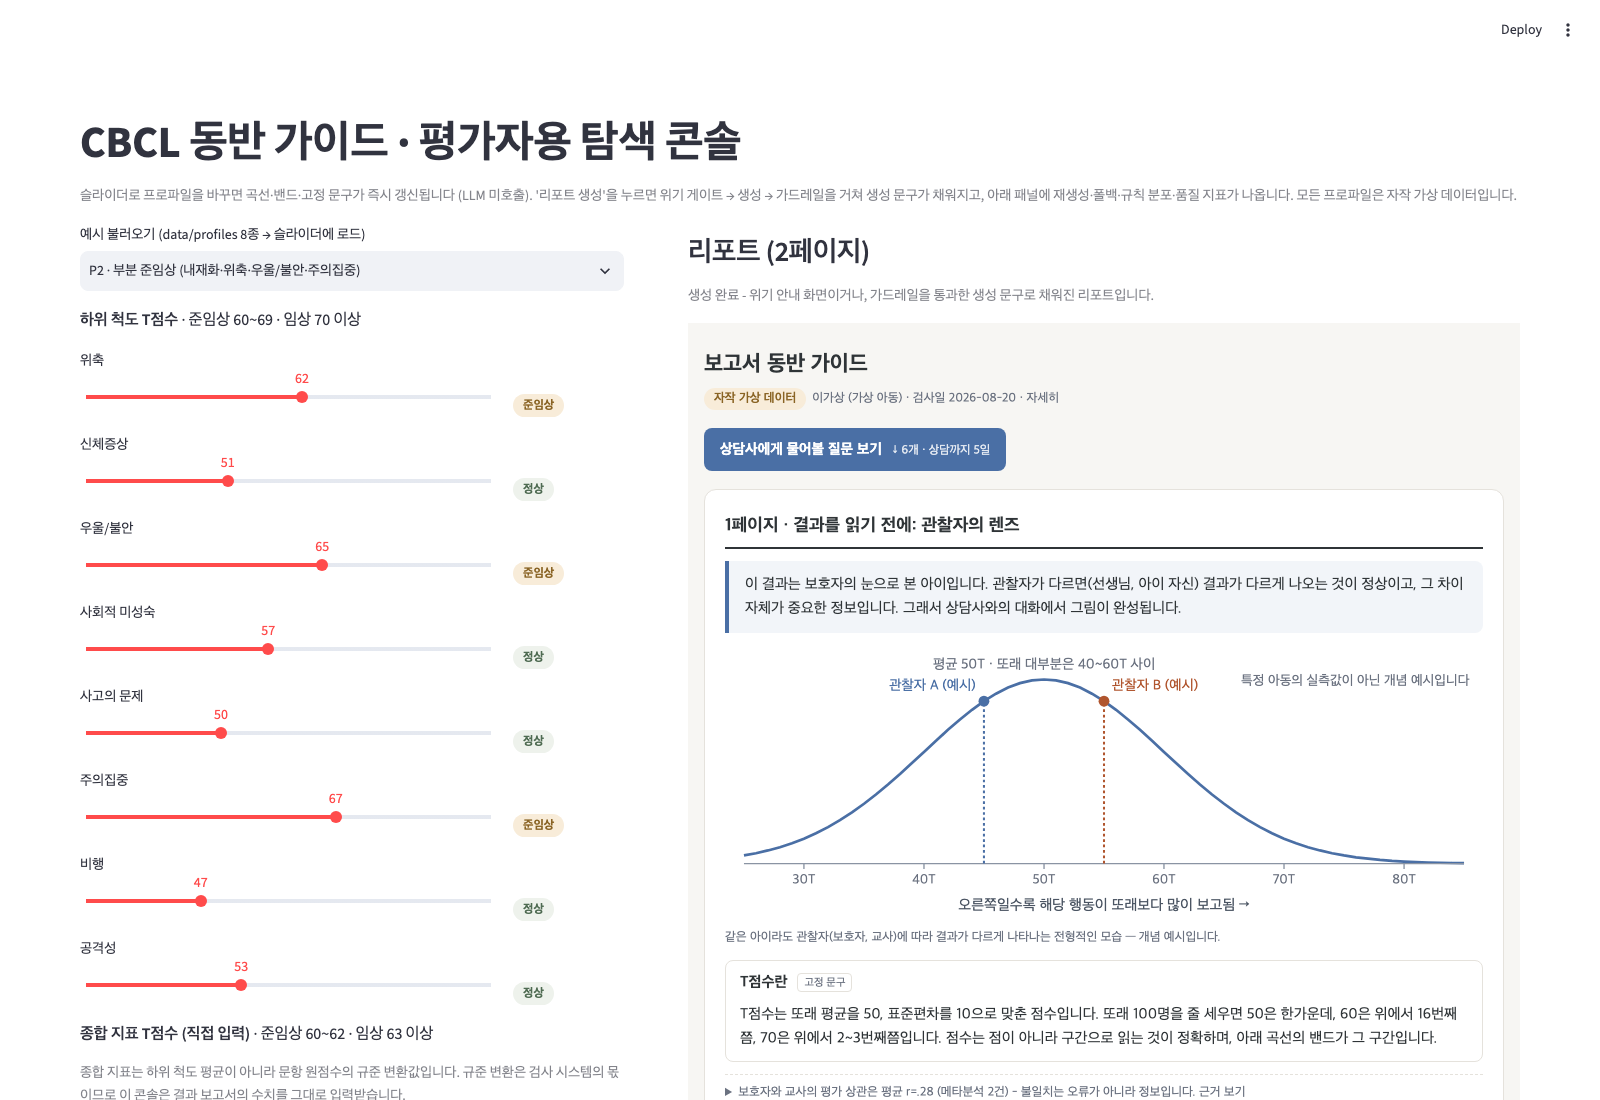
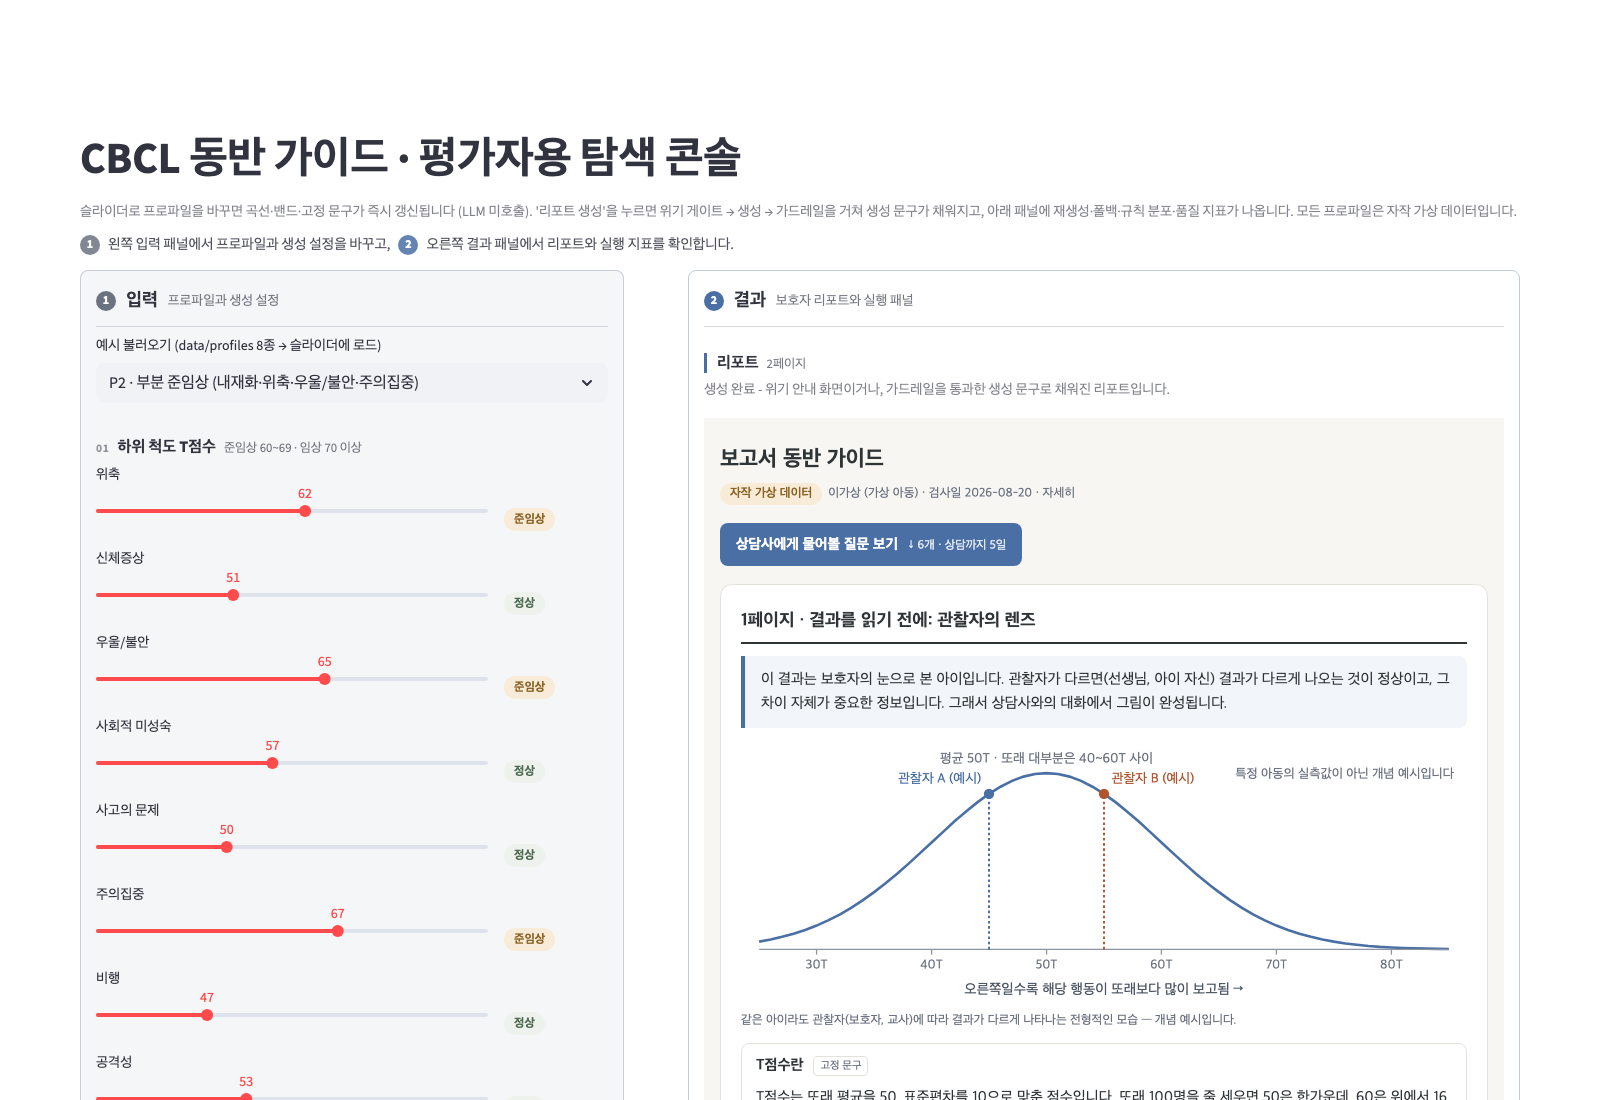
feat: 탐색 콘솔 입력/결과 패널 시각 분리 - 헤더 라벨, 배경과 테두리, 소제목 구분 규칙 (#18)
* feat: 탐색 콘솔 입력/결과 패널 시각 분리 - 헤더 라벨, 배경과 테두리, 소제목 구분 규칙

좌우 열을 st.columns로 나누기만 해서 어디가 입력이고 어디가 결과인지 한눈에
들어오지 않았다. 두 열을 키 있는 테두리 컨테이너로 감싸 배경과 테두리로 나누고,
같은 높이의 패널 라벨과 소제목 표식(입력은 회색 번호 캡션, 결과는 파란 좌측 보더)을
붙였다. CSS 셀렉터는 st-key-* 클래스와 콘솔이 직접 출력하는 클래스만 쓴다.
Refs #17.

* docs: 탐색 콘솔 레이아웃 분리를 README 콘솔 절, ADR 0007, docs 목차에 반영

---------

diff --git a/app/explorer.py b/app/explorer.py
@@ -48,6 +48,30 @@ NOTE_SLOTS = 3
 REPORT_HEIGHT = 980
 CHIP_COLORS = {"normal": ("#eef2ec", "#4f6b52"), "borderline": ("#f8ecd9", "#8a6425"),
                "clinical": ("#f6e0d8", "#97462a")}
+ACCENT = "#4a6fa5"  # 리포트 템플릿의 --accent와 같은 파랑. 결과 패널 표식에만 쓴다.
+# 입력(왼쪽)·결과(오른쪽) 패널 구분. 셀렉터는 st.container(key=...)가 붙이는 st-key-* 클래스와
+# 이 파일이 직접 출력하는 cb-* 클래스만 쓴다 (data-testid 등 내부 DOM에는 의존하지 않음).
+PANEL_CSS = f"""
+<style>
+.st-key-input_panel {{ background: rgba(120, 130, 150, 0.07); border-color: rgba(120, 130, 150, 0.35) !important; }}
+.st-key-result_panel {{ border-color: rgba(74, 111, 165, 0.35) !important; }}
+.cb-badge {{ display: inline-flex; align-items: center; justify-content: center; width: 20px; height: 20px;
+             border-radius: 50%; font-size: 12px; font-weight: 700; color: #fff; background: #6b7280; flex: none; }}
+.cb-badge.out {{ background: {ACCENT}; }}
+.cb-guide {{ display: flex; flex-wrap: wrap; align-items: center; gap: 6px 8px; font-size: 0.9rem; opacity: 0.85;
+             margin: -6px 0 14px; }}
+.cb-head {{ display: flex; align-items: center; gap: 10px; padding-bottom: 10px; margin-bottom: 8px;
+            border-bottom: 1px solid rgba(120, 130, 150, 0.3); }}
+.cb-head .title {{ font-size: 1.15rem; font-weight: 700; }}
+.cb-head .sub {{ font-size: 0.85rem; opacity: 0.65; }}
+.cb-sec {{ display: flex; flex-wrap: wrap; align-items: baseline; gap: 4px 8px; margin: 18px 0 6px; line-height: 1.3; }}
+.cb-sec .title {{ font-weight: 700; }}
+.cb-sec .note {{ font-size: 0.8rem; opacity: 0.65; }}
+.cb-sec.in .idx {{ font-size: 0.72rem; font-weight: 700; letter-spacing: 0.06em; opacity: 0.5;
+                   font-variant-numeric: tabular-nums; }}
+.cb-sec.out {{ border-left: 3px solid {ACCENT}; padding-left: 10px; }}
+</style>
+"""
 
 
 # ---------------------------------------------------------------- 상태
@@ -127,6 +151,24 @@ def _chip(band: str) -> str:
             f'font-weight:700;background:{bg};color:{fg};white-space:nowrap">{BAND_KO[band]}</span>')
 
 
+def _badge(kind: str, n: int) -> str:
+    return f'<span class="cb-badge {kind}">{n}</span>'
+
+
+def _panel_head(kind: str, n: int, title: str, sub: str) -> None:
+    """열 맨 위의 패널 라벨. 두 열 모두 테두리 컨테이너 첫 요소라 같은 높이에 놓인다."""
+    st.markdown(f'<div class="cb-head">{_badge(kind, n)}<span class="title">{title}</span>'
+                f'<span class="sub">{sub}</span></div>', unsafe_allow_html=True)
+
+
+def _section(kind: str, title: str, note: str = "", idx: str = "") -> None:
+    """소제목. 입력 패널(in)은 회색 번호 캡션, 결과 패널(out)은 파란 좌측 보더로 어느 영역인지 표시."""
+    idx_html = f'<span class="idx">{idx}</span>' if idx else ""
+    note_html = f'<span class="note">{note}</span>' if note else ""
+    st.markdown(f'<div class="cb-sec {kind}">{idx_html}<span class="title">{title}</span>{note_html}</div>',
+                unsafe_allow_html=True)
+
+
 def _slider_row(sid: str, criteria: dict) -> None:
     c1, c2 = st.columns([5, 1.4], vertical_alignment="bottom")
     c1.slider(SCALE_NAMES[sid], T_SLIDER_MIN, T_SLIDER_MAX, key=f"t_{sid}")
@@ -138,11 +180,11 @@ def _left_panel() -> tuple[bool, str, dict]:
                  format_func=EXAMPLE_LABELS.get, key="example", on_change=_load_example)
     criteria = example_inputs(st.session_state["example"]).criteria
 
-    st.markdown("**하위 척도 T점수** · 준임상 60~69 · 임상 70 이상")
+    _section("in", "하위 척도 T점수", "준임상 60~69 · 임상 70 이상", idx="01")
     for sid in SYNDROME_IDS:
         _slider_row(sid, criteria)
 
-    st.markdown("**종합 지표 T점수 (직접 입력)** · 준임상 60~62 · 임상 63 이상")
+    _section("in", "종합 지표 T점수 (직접 입력)", "준임상 60~62 · 임상 63 이상", idx="02")
     st.caption(COMPOSITE_NOTE)
     for sid in COMPOSITE_IDS:
         _slider_row(sid, criteria)
@@ -157,13 +199,14 @@ def _left_panel() -> tuple[bool, str, dict]:
                  key="sex", horizontal=True)
         c2.number_input("만 나이", 4, 18, key="age_years")
 
-    st.markdown("**보호자 의견** · 질문과 관찰 포인트가 이 문장을 인용합니다")
+    _section("in", "보호자 의견", "질문과 관찰 포인트가 이 문장을 인용합니다", idx="03")
     for i in range(NOTE_SLOTS):
         st.text_input(f"의견 {i + 1}", key=f"note_{i}", label_visibility="collapsed",
                       placeholder=f"보호자 의견 {i + 1} (비우면 제외)")
     st.number_input("상담까지 남은 날 (days_until_counseling)", 0, 60, key="days")
 
-    mode = st.radio("생성 모드", list(MODES), format_func=MODES.get, key="mode")
+    _section("in", "생성 모드", "mock · Ollama · API", idx="04")
+    mode = st.radio("생성 모드", list(MODES), format_func=MODES.get, key="mode", label_visibility="collapsed")
     opts: dict = {}
     if mode == "mock":
         st.caption("mock 템플릿 - 실제 LLM 생성이 아닙니다. 보호자 의견을 「」로 인용하고 준임상 이상 척도만 "
@@ -205,7 +248,7 @@ def _rule_counts(stats: dict) -> dict[str, int]:
 
 
 def _run_panel(run: dict | None, stale: bool) -> None:
-    st.subheader("이번 실행")
+    _section("out", "이번 실행")
     if run is None:
         st.caption("아직 실행 전입니다. 왼쪽에서 값을 바꾸고 '리포트 생성'을 누르면 위기 게이트 → 생성 → "
                    "가드레일 순서로 실행되고, 위 리포트의 '생성 대기' 자리가 실제 문장으로 바뀝니다.")
@@ -255,7 +298,7 @@ def _run_panel(run: dict | None, stale: bool) -> None:
 
     q = stats["quality"]
     j, r, w = q["jargon"], q["reflection"], q["direction_warnings"]
-    st.markdown("**품질 지표 (측정만, 게이트 아님)**")
+    _section("out", "품질 지표", "측정만, 게이트 아님")
     qc = st.columns(3)
     qc[0].metric("보호자 표현 반영률 (항목 · 토큰)",
                  f"{r['items_reflected']}/{r['items_total']} ({fmt_rate(r['item_rate'])})",
@@ -277,15 +320,24 @@ def _run_panel(run: dict | None, stale: bool) -> None:
 # ---------------------------------------------------------------- 메인
 
 st.set_page_config(page_title="CBCL 동반 가이드 · 탐색 콘솔", layout="wide")
+st.markdown(PANEL_CSS, unsafe_allow_html=True)
 _init_state()
 st.title("CBCL 동반 가이드 · 평가자용 탐색 콘솔")
 st.caption("슬라이더로 프로파일을 바꾸면 곡선·밴드·고정 문구가 즉시 갱신됩니다 (LLM 미호출). "
            "'리포트 생성'을 누르면 위기 게이트 → 생성 → 가드레일을 거쳐 생성 문구가 채워지고, 아래 패널에 "
            "재생성·폴백·규칙 분포·품질 지표가 나옵니다. 모든 프로파일은 자작 가상 데이터입니다.")
+st.markdown(f'<div class="cb-guide">{_badge("in", 1)}<span>왼쪽 입력 패널에서 프로파일과 생성 설정을 바꾸고,</span>'
+            f'{_badge("out", 2)}<span>오른쪽 결과 패널에서 리포트와 실행 지표를 확인합니다.</span></div>',
+            unsafe_allow_html=True)
 
 left_col, right_col = st.columns([2, 3], gap="large")
-with left_col:
+input_box = left_col.container(border=True, key="input_panel")
+result_box = right_col.container(border=True, key="result_panel")
+with input_box:
+    _panel_head("in", 1, "입력", "프로파일과 생성 설정")
     clicked, mode, opts = _left_panel()
+with result_box:
+    _panel_head("out", 2, "결과", "보호자 리포트와 실행 패널")
 
 inputs = _collect_inputs()
 raw = build_profile_raw(inputs)
@@ -293,7 +345,7 @@ fingerprint = json.dumps(raw, sort_keys=True, ensure_ascii=False)
 try:
     profile = build_profile(inputs)
 except ProfileError as e:
-    with right_col:
+    with result_box:
         st.error("입력 프로파일 검증 실패 - 리포트를 생성하지 않습니다 (파서 fail-closed)")
         for msg in e.errors:
             st.write(f"- {msg}")
@@ -301,7 +353,7 @@ except ProfileError as e:
 
 autorun = st.session_state.pop("autorun", False)
 if clicked or autorun:
-    with right_col, st.spinner("위기 게이트 → 생성 → 가드레일 실행 중..."):
+    with result_box, st.spinner("위기 게이트 → 생성 → 가드레일 실행 중..."):
         try:
             st.session_state["run"] = _run_pipeline(profile, mode, opts, fingerprint)
         except llm_failure_types() as e:
@@ -310,8 +362,8 @@ if clicked or autorun:
 
 run = st.session_state.get("run")
 stale = bool(run) and run["fingerprint"] != fingerprint
-with right_col:
-    st.subheader("리포트 (2페이지)")
+with result_box:
+    _section("out", "리포트", "2페이지")
     if run and not stale:
         st.caption("생성 완료 - 위기 안내 화면이거나, 가드레일을 통과한 생성 문구로 채워진 리포트입니다.")
         html = run["html"]

diff --git a/docs/decisions/0007-explorer-console.md b/docs/decisions/0007-explorer-console.md
@@ -26,3 +26,11 @@ mock 모드는 `TemplateMockClient`(보호자 의견을 「」로 인용, 근거
 `make_client("mock-template")`, `src/report_html.py`에 `build_pending_report_html`이 생겼다. 템플릿 목은 하네스에
 쓰지 않으며(픽스처 목 유지) 화면에 "실제 LLM 생성이 아님"을 명시한다. 템플릿 목의 문장은 규칙을 통과하도록 작성된
 것이라 실 LLM의 실패 양상(스키마 누락, 코드 누출)을 재현하지 않는다 - 그것은 Ollama/API 모드의 몫이다.
+
+## 추가 결정 (2026-09-02): 입력 패널과 결과 패널의 시각 분리
+왼쪽 열은 `st.container(border=True, key="input_panel")`(옅은 회색 배경과 1px 테두리), 오른쪽 열은 `key="result_panel"`(흰 배경과
+파란 계열 테두리)로 감싸고, 각 열 맨 위에 번호 배지가 붙은 패널 라벨(입력 / 결과)을 같은 높이에 둔다. 소제목은 입력 패널이
+회색 번호 캡션(01~04), 결과 패널이 파란 좌측 보더로 통일해 스크롤 중에도 어느 영역인지 알 수 있게 한다. 색은 리포트 템플릿의
+accent 파랑(#4a6fa5) 하나와 회색만 쓰고, 다크 테마에서도 깨지지 않도록 rgba로 지정한다. CSS 셀렉터는 Streamlit이 key에서
+만들어 주는 `st-key-*` 클래스와 콘솔이 직접 출력하는 `cb-*` 클래스만 쓰며 `data-testid` 같은 내부 DOM에는 의존하지 않는다
+(버전에 따라 바뀔 수 있어 기각). 두 열을 모두 테두리 컨테이너로 감싼 것은 패딩을 같게 해 라벨 높이를 맞추기 위해서다.

diff --git a/README.md b/README.md
@@ -60,12 +60,15 @@ python harness/run_harness.py --mock
 
 ## 탐색 콘솔 (평가자용)
 
-![탐색 콘솔 - 왼쪽 슬라이더·의견 입력, 오른쪽 2페이지 리포트와 실행 패널](docs/img/explorer.png)
+![탐색 콘솔 - 왼쪽 입력 패널(슬라이더, 보호자 의견, 생성 모드), 오른쪽 결과 패널(2페이지 리포트와 실행 패널)](docs/img/explorer.png)
 
 JSON 파일 없이 슬라이더와 텍스트로 프로파일을 바꿔 가며 결과를 확인하는
 Streamlit 화면입니다. 렌더러·규칙·생성기는 위 파이프라인 모듈을 그대로
 호출합니다 (파서 → 위기 게이트 → generator → guardrails → report_html).
 화면용 곡선이나 규칙을 따로 두지 않았으므로 콘솔에서 보는 것이 곧 산출물입니다.
+화면은 왼쪽 입력 패널(프로파일과 생성 설정)과 오른쪽 결과 패널(리포트와 실행 지표)로
+나뉘며, 두 패널은 배경과 테두리로 구분되고 소제목에는 영역 표식(입력은 회색 번호 캡션,
+결과는 파란 좌측 보더)이 붙습니다.
 
 ```bash
 pip install -r requirements-app.txt      # 코어 requirements + streamlit (CI는 코어만 돕니다)

diff --git a/docs/README.md b/docs/README.md
@@ -15,6 +15,7 @@
 | [0004](decisions/0004-g3-numeric-equivalence.md) | G3 에코 t_score의 수치 동치 정의 정확화 (비교 완화 아님) |
 | [0005](decisions/0005-reduce-llm-scope.md) | LLM 범위 축소: 척도별 해설은 고정 문구, LLM은 인용이 필요한 곳만 |
 | [0006](decisions/0006-harness-metrics-redefinition.md) | 검증 지표 재정의: 커버리지 2단, FP 게이트, 시드 수 assert |
+| [0007](decisions/0007-explorer-console.md) | 평가자용 탐색 콘솔: 슬라이더 입력, 즉시 결정론 렌더, 템플릿 목 (입력/결과 패널 분리 추가 결정 포함) |
 
 새 결정은 다음 번호로 파일을 추가하고 이 표에 한 줄을 더합니다. 규칙·지표·프롬프트 계약을
 바꾸는 PR은 해당 ADR 번호를 본문에 적습니다.
